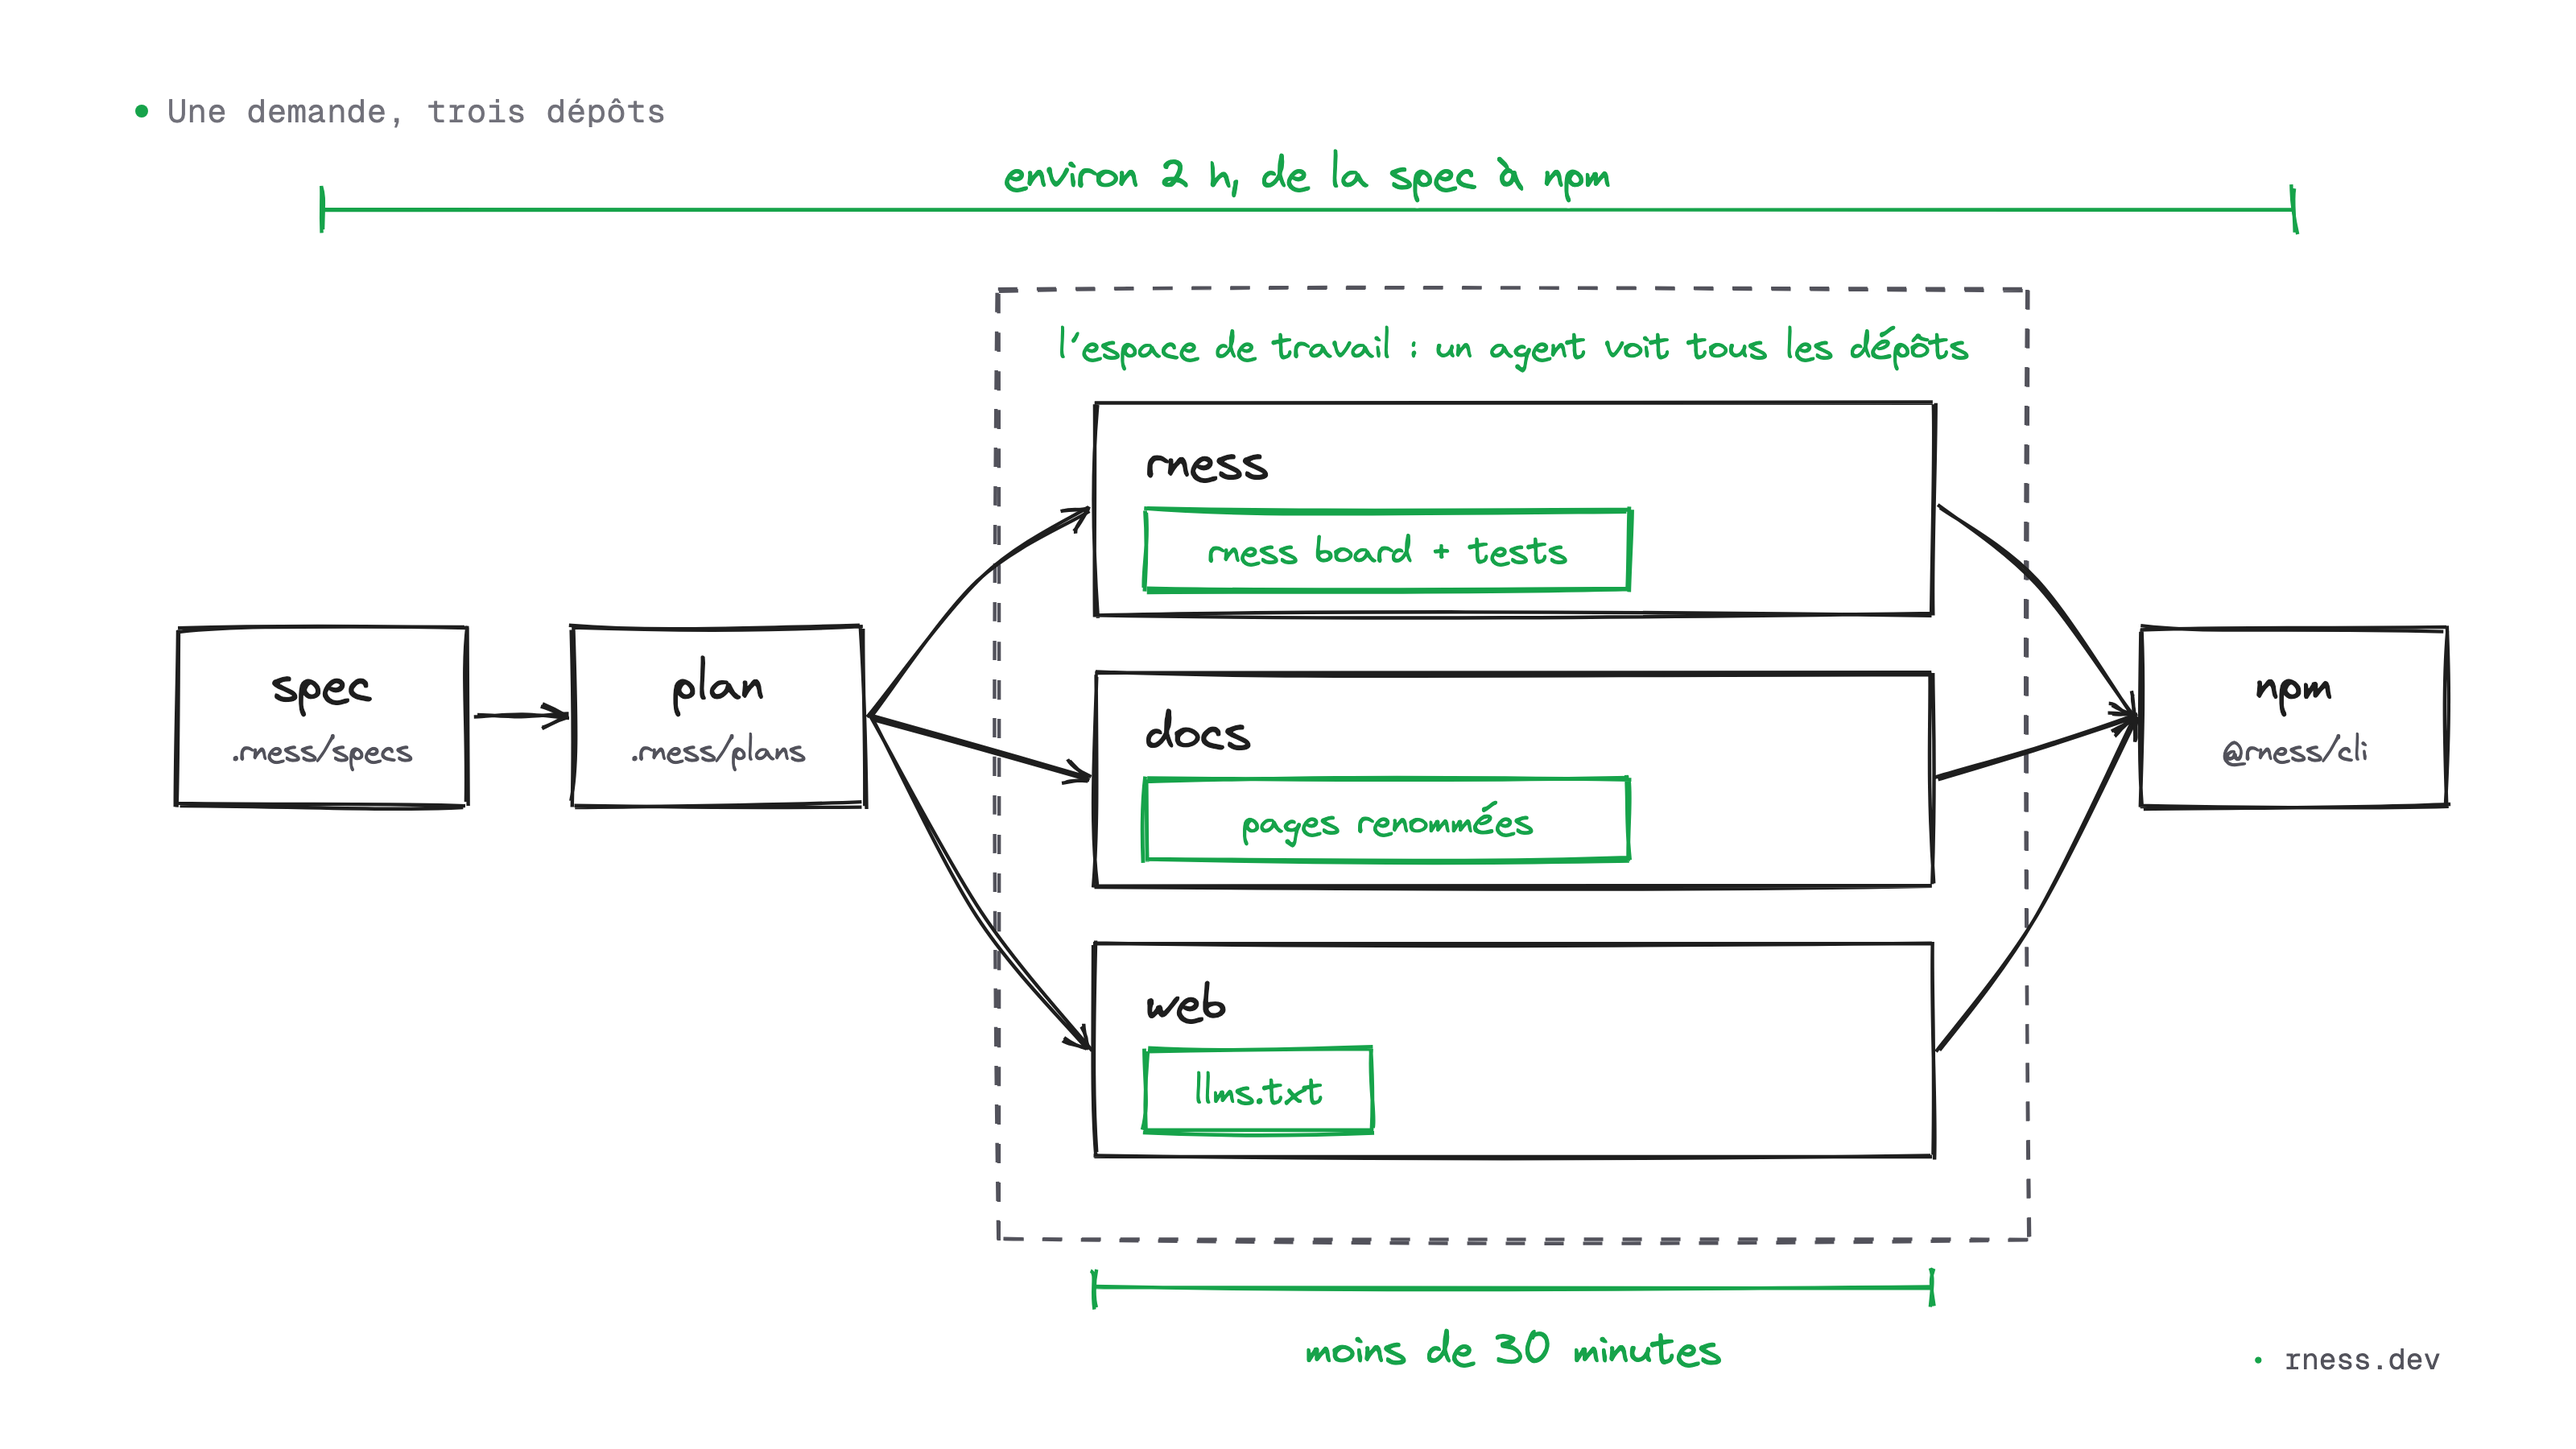
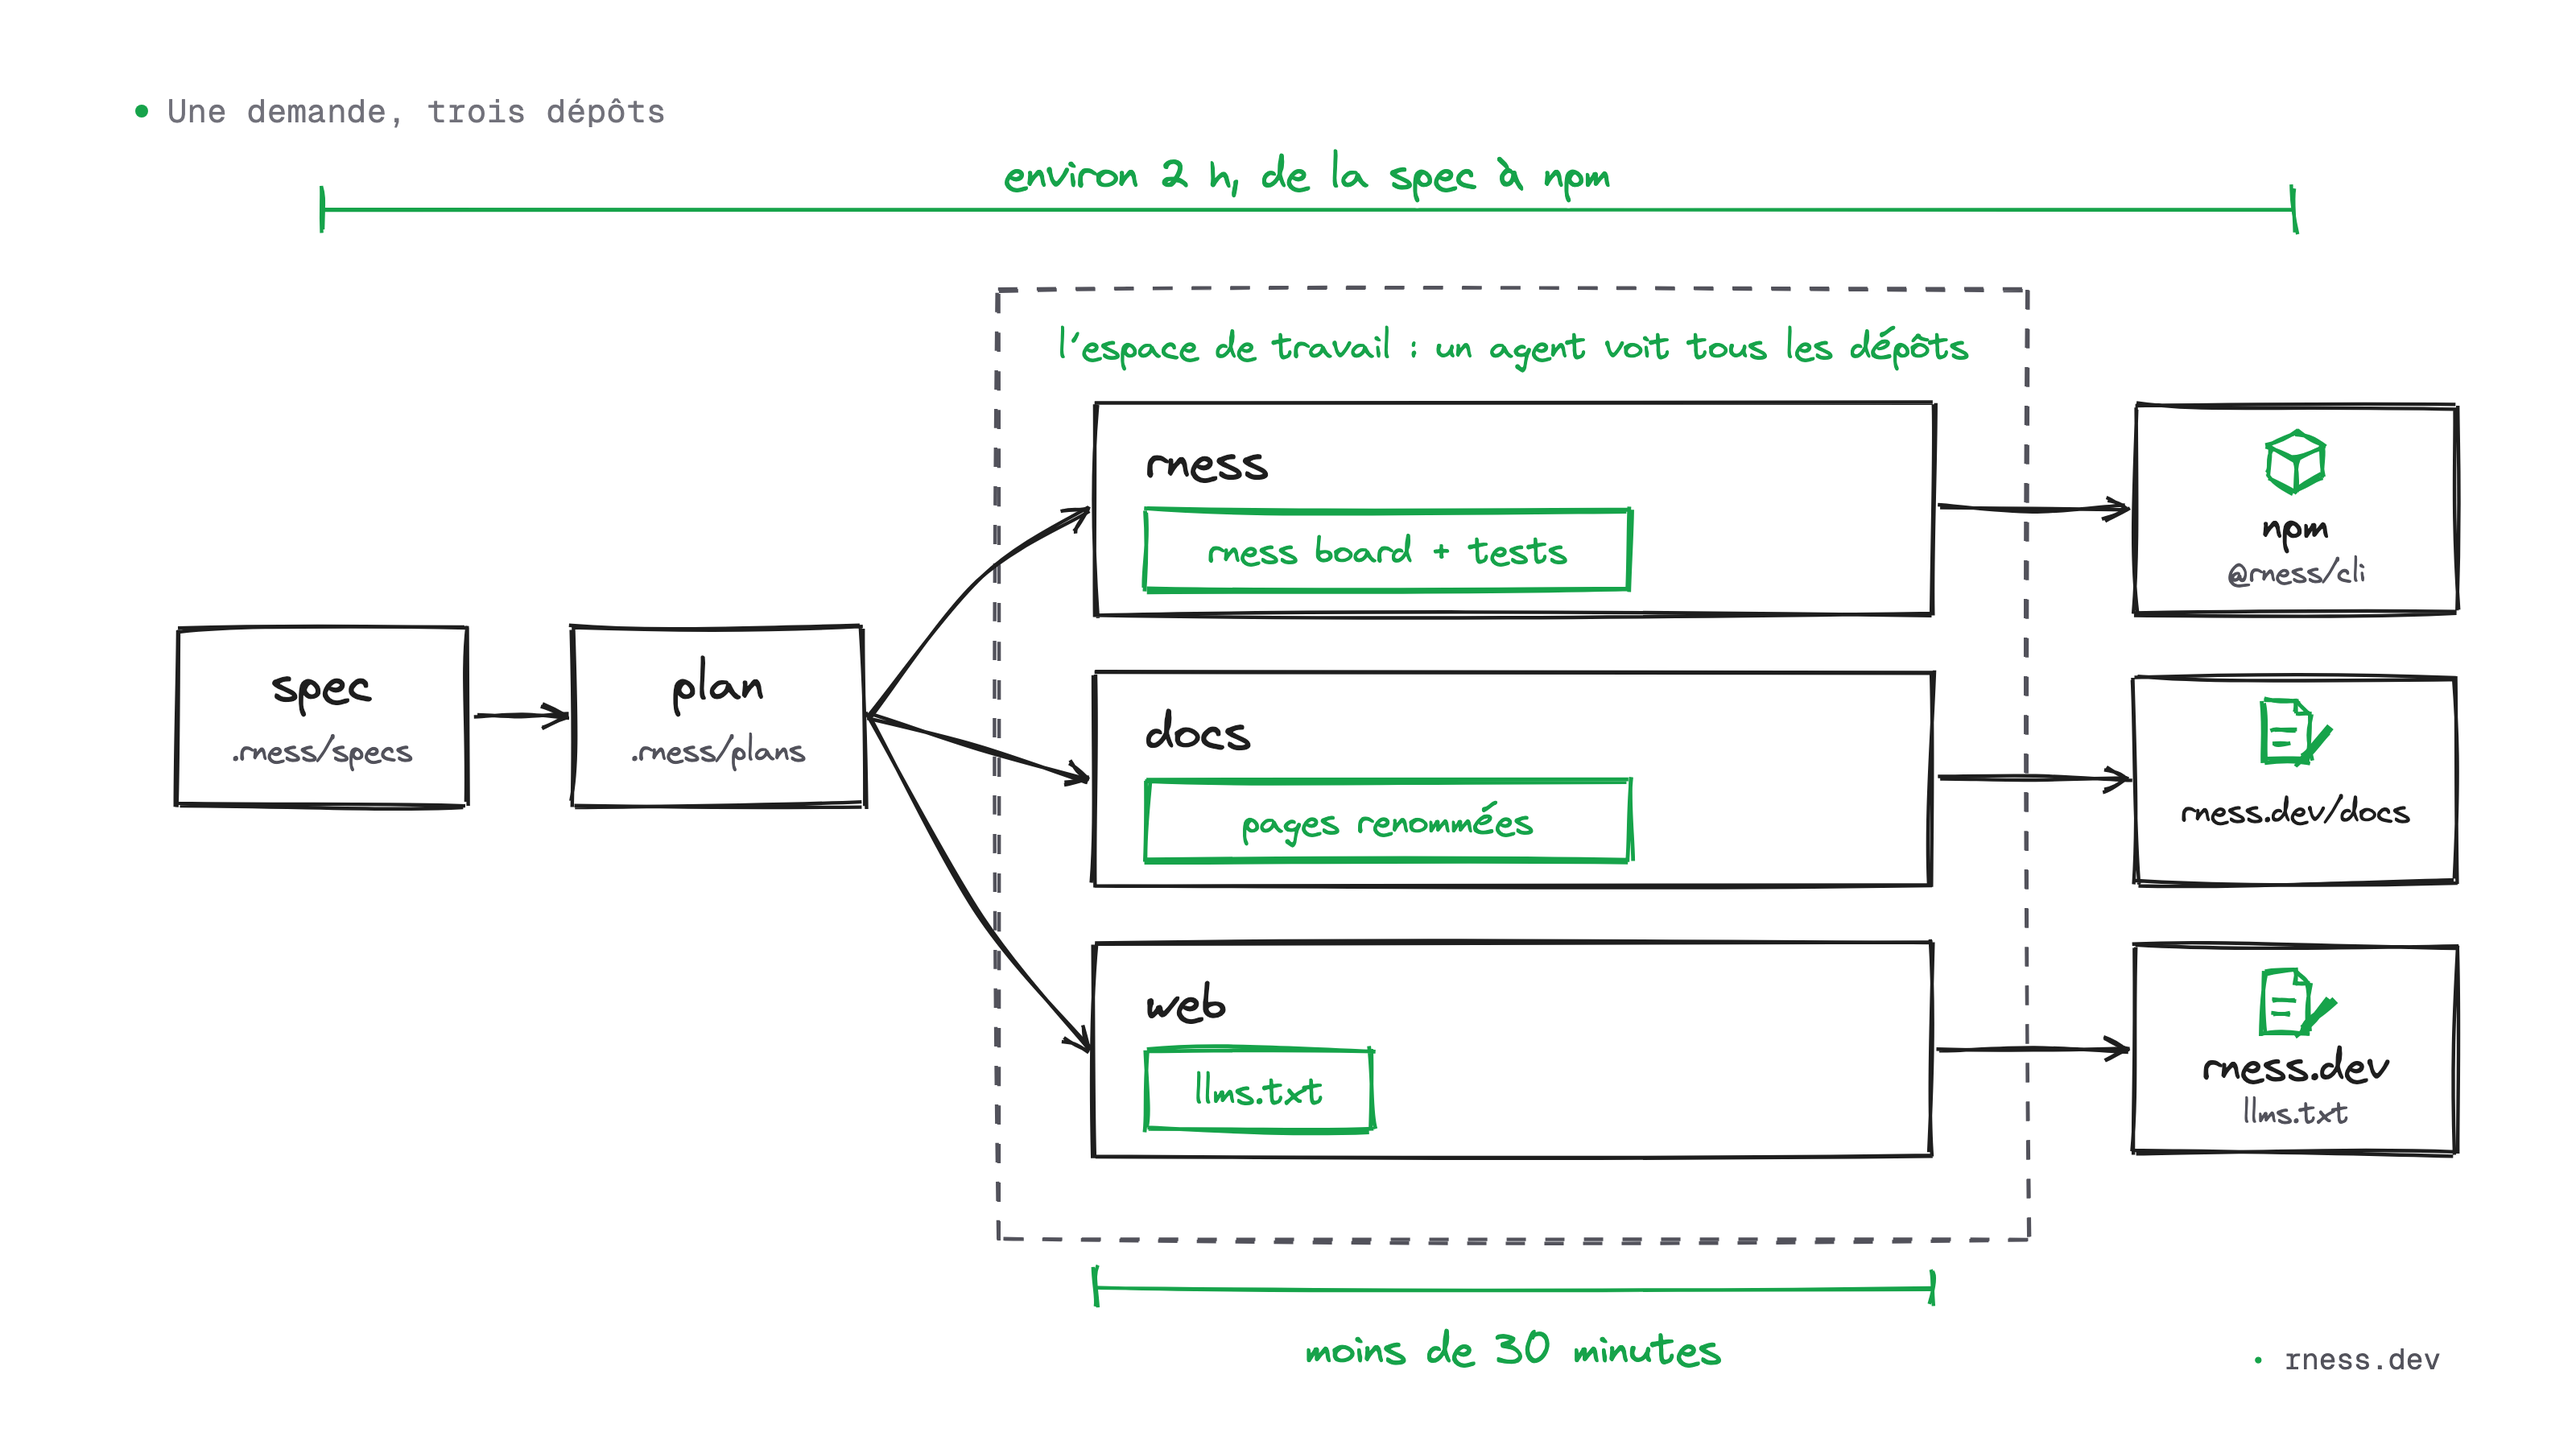
docs: the rename figure leads each repository to what it changed

diff --git a/articles/gouverner-les-agents-de-code.md b/articles/gouverner-les-agents-de-code.md
@@ -50,7 +50,7 @@ L'intérêt se voit quand un changement déborde d'un dépôt. J'ai voulu renomm
 
 Je l'ai demandé une fois, sous forme de spécification dans `.rness`, et l'agent en a tiré un plan. Il travaille depuis l'espace de travail, où l'outil, la documentation et le site sont côte à côte sous les mêmes règles : il voyait tout ce que le renommage touchait. En moins d'une demi-heure, il a commité la nouvelle commande et ses tests dans l'outil, puis les pages renommées de la documentation. Il a aussi mis à jour le `llms.txt` du site, le fichier que les autres agents IA lisent pour apprendre à se servir de l'outil. La nouvelle version était sur npm deux heures environ après la spécification.
 
-![Une spec et un plan dans .rness mènent à des commits dans trois dépôts d'un même espace de travail (rness, docs et le llms.txt de web) en moins de 30 minutes, puis à une version sur npm environ deux heures après la spec.](./img/une-demande-trois-depots.png)
+![Une spec et un plan dans .rness mènent à des commits dans trois dépôts d'un même espace de travail en moins de 30 minutes, chacun vers ce qu'il change : l'outil sur npm (@rness/cli), la documentation sur rness.dev/docs, le site et son llms.txt sur rness.dev. Environ deux heures de la spec à npm.](./img/une-demande-trois-depots.png)
 
 ## Une décision, vérifiée partout
 
